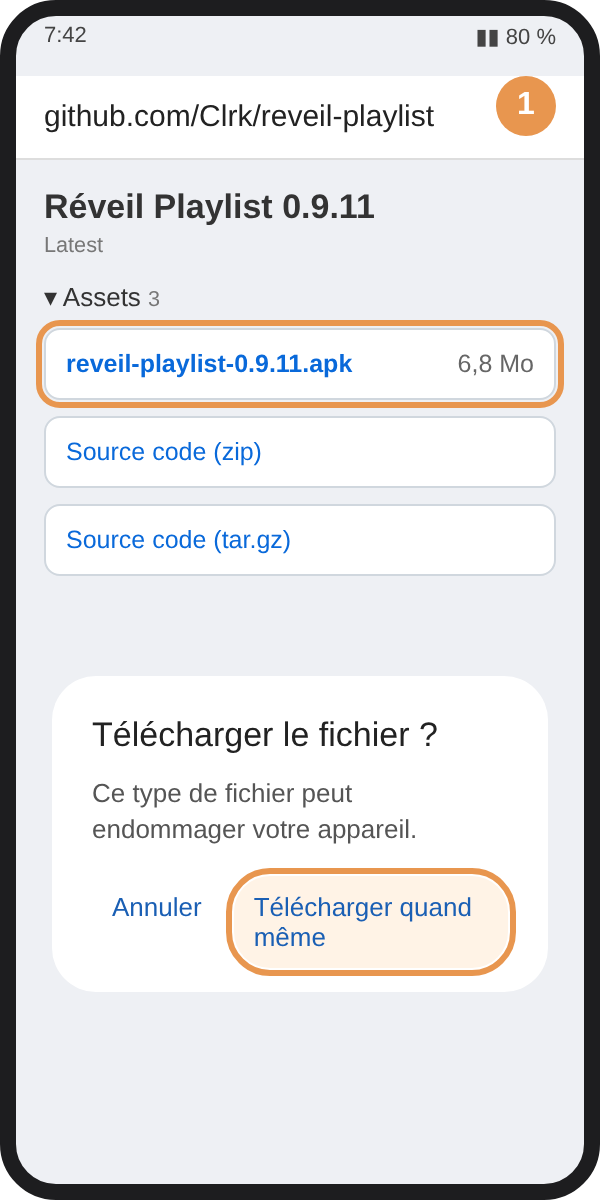
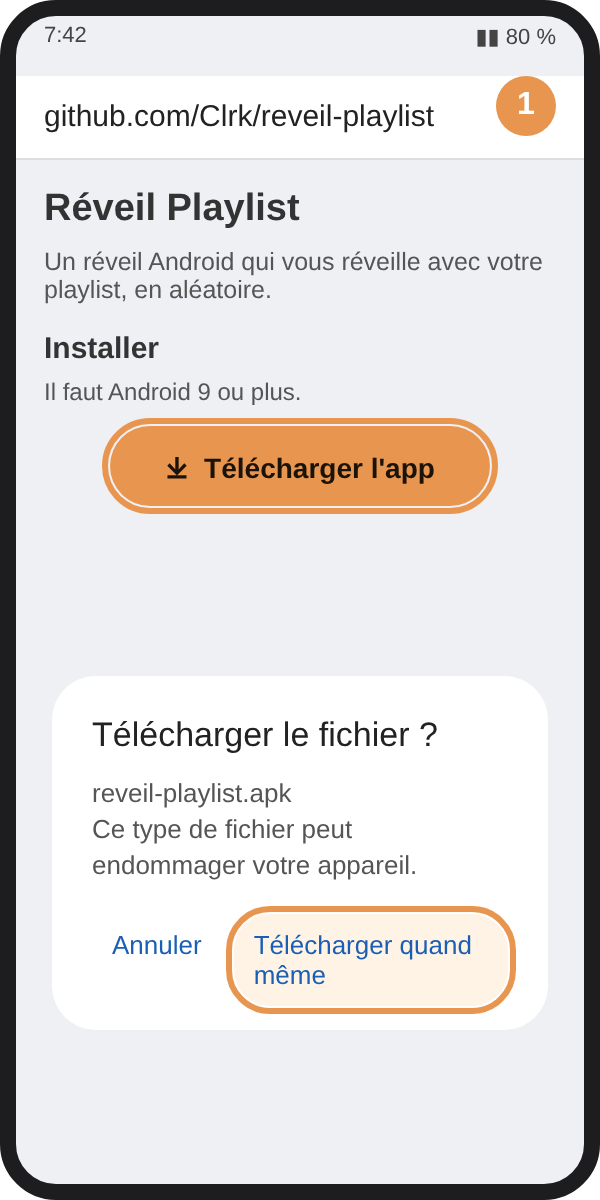
Bouton « Télécharger l'app » : lien direct vers l'APK
La release publie désormais reveil-playlist.apk (nom fixe), donc
releases/latest/download/reveil-playlist.apk mène toujours à la dernière
version. La mise à jour dans l'app prend le premier .apk : inchangée.

Claude-Session: https://claude.ai/code/session_01FgVjwSMeHx2BbZjTXkwX8Y

diff --git a/docs/INSTALLATION.md b/docs/INSTALLATION.md
@@ -5,7 +5,7 @@ Vous l'installez vous-même, une seule fois.
 Il faut un téléphone Android 9 ou plus récent.
 
 <p align="center">
-  <img src="installer-1-telecharger.png" width="200" alt="Étape 1 : télécharger le fichier .apk">
+  <img src="installer-1-telecharger.png" width="200" alt="Étape 1 : Télécharger l'app, puis Télécharger quand même">
   <img src="installer-2-autoriser.png" width="200" alt="Étape 2 : autoriser le navigateur, puis Installer">
   <img src="installer-3-play-protect.png" width="200" alt="Étape 3 : Plus de détails, puis Installer quand même">
 </p>
@@ -14,9 +14,8 @@ Les mots peuvent changer un peu selon votre téléphone.
 
 ## 1. Télécharger
 
-1. Sur le téléphone, ouvrez la [dernière version](https://github.com/Clrk/reveil-playlist/releases/latest).
-2. Touchez le fichier qui finit par **`.apk`**.
-3. Touchez **« Télécharger quand même »**.
+1. Sur le téléphone, touchez [**Télécharger l'app**](https://github.com/Clrk/reveil-playlist/releases/latest/download/reveil-playlist.apk).
+2. Touchez **« Télécharger quand même »**.
 
 ## 2. Installer
 

diff --git a/README.md b/README.md
@@ -11,10 +11,10 @@ https://github.com/user-attachments/assets/6b93ac74-6eba-49f8-918b-5fc5ff1955f3
 Il faut Android 9 ou plus.
 
 <p align="center">
-  <a href="../../releases/latest"><img src="docs/bouton-telecharger.svg" height="56" alt="Télécharger l'app"></a>
+  <a href="https://github.com/Clrk/reveil-playlist/releases/latest/download/reveil-playlist.apk"><img src="docs/bouton-telecharger.svg" height="56" alt="Télécharger l'app"></a>
 </p>
 
-1. Sur le téléphone, touchez **Télécharger**, puis le fichier **`.apk`**.
+1. Sur le téléphone, touchez **Télécharger l'app**, puis **« Télécharger quand même »**.
 2. Ouvrez-le. Si Android bloque, activez **« Autoriser cette source »**.
 3. Si Play Protect alerte, touchez **« Plus de détails »** puis **« Installer quand même »**.
 4. Ouvrez l'app et touchez **« Autoriser »** sur chaque ligne.
